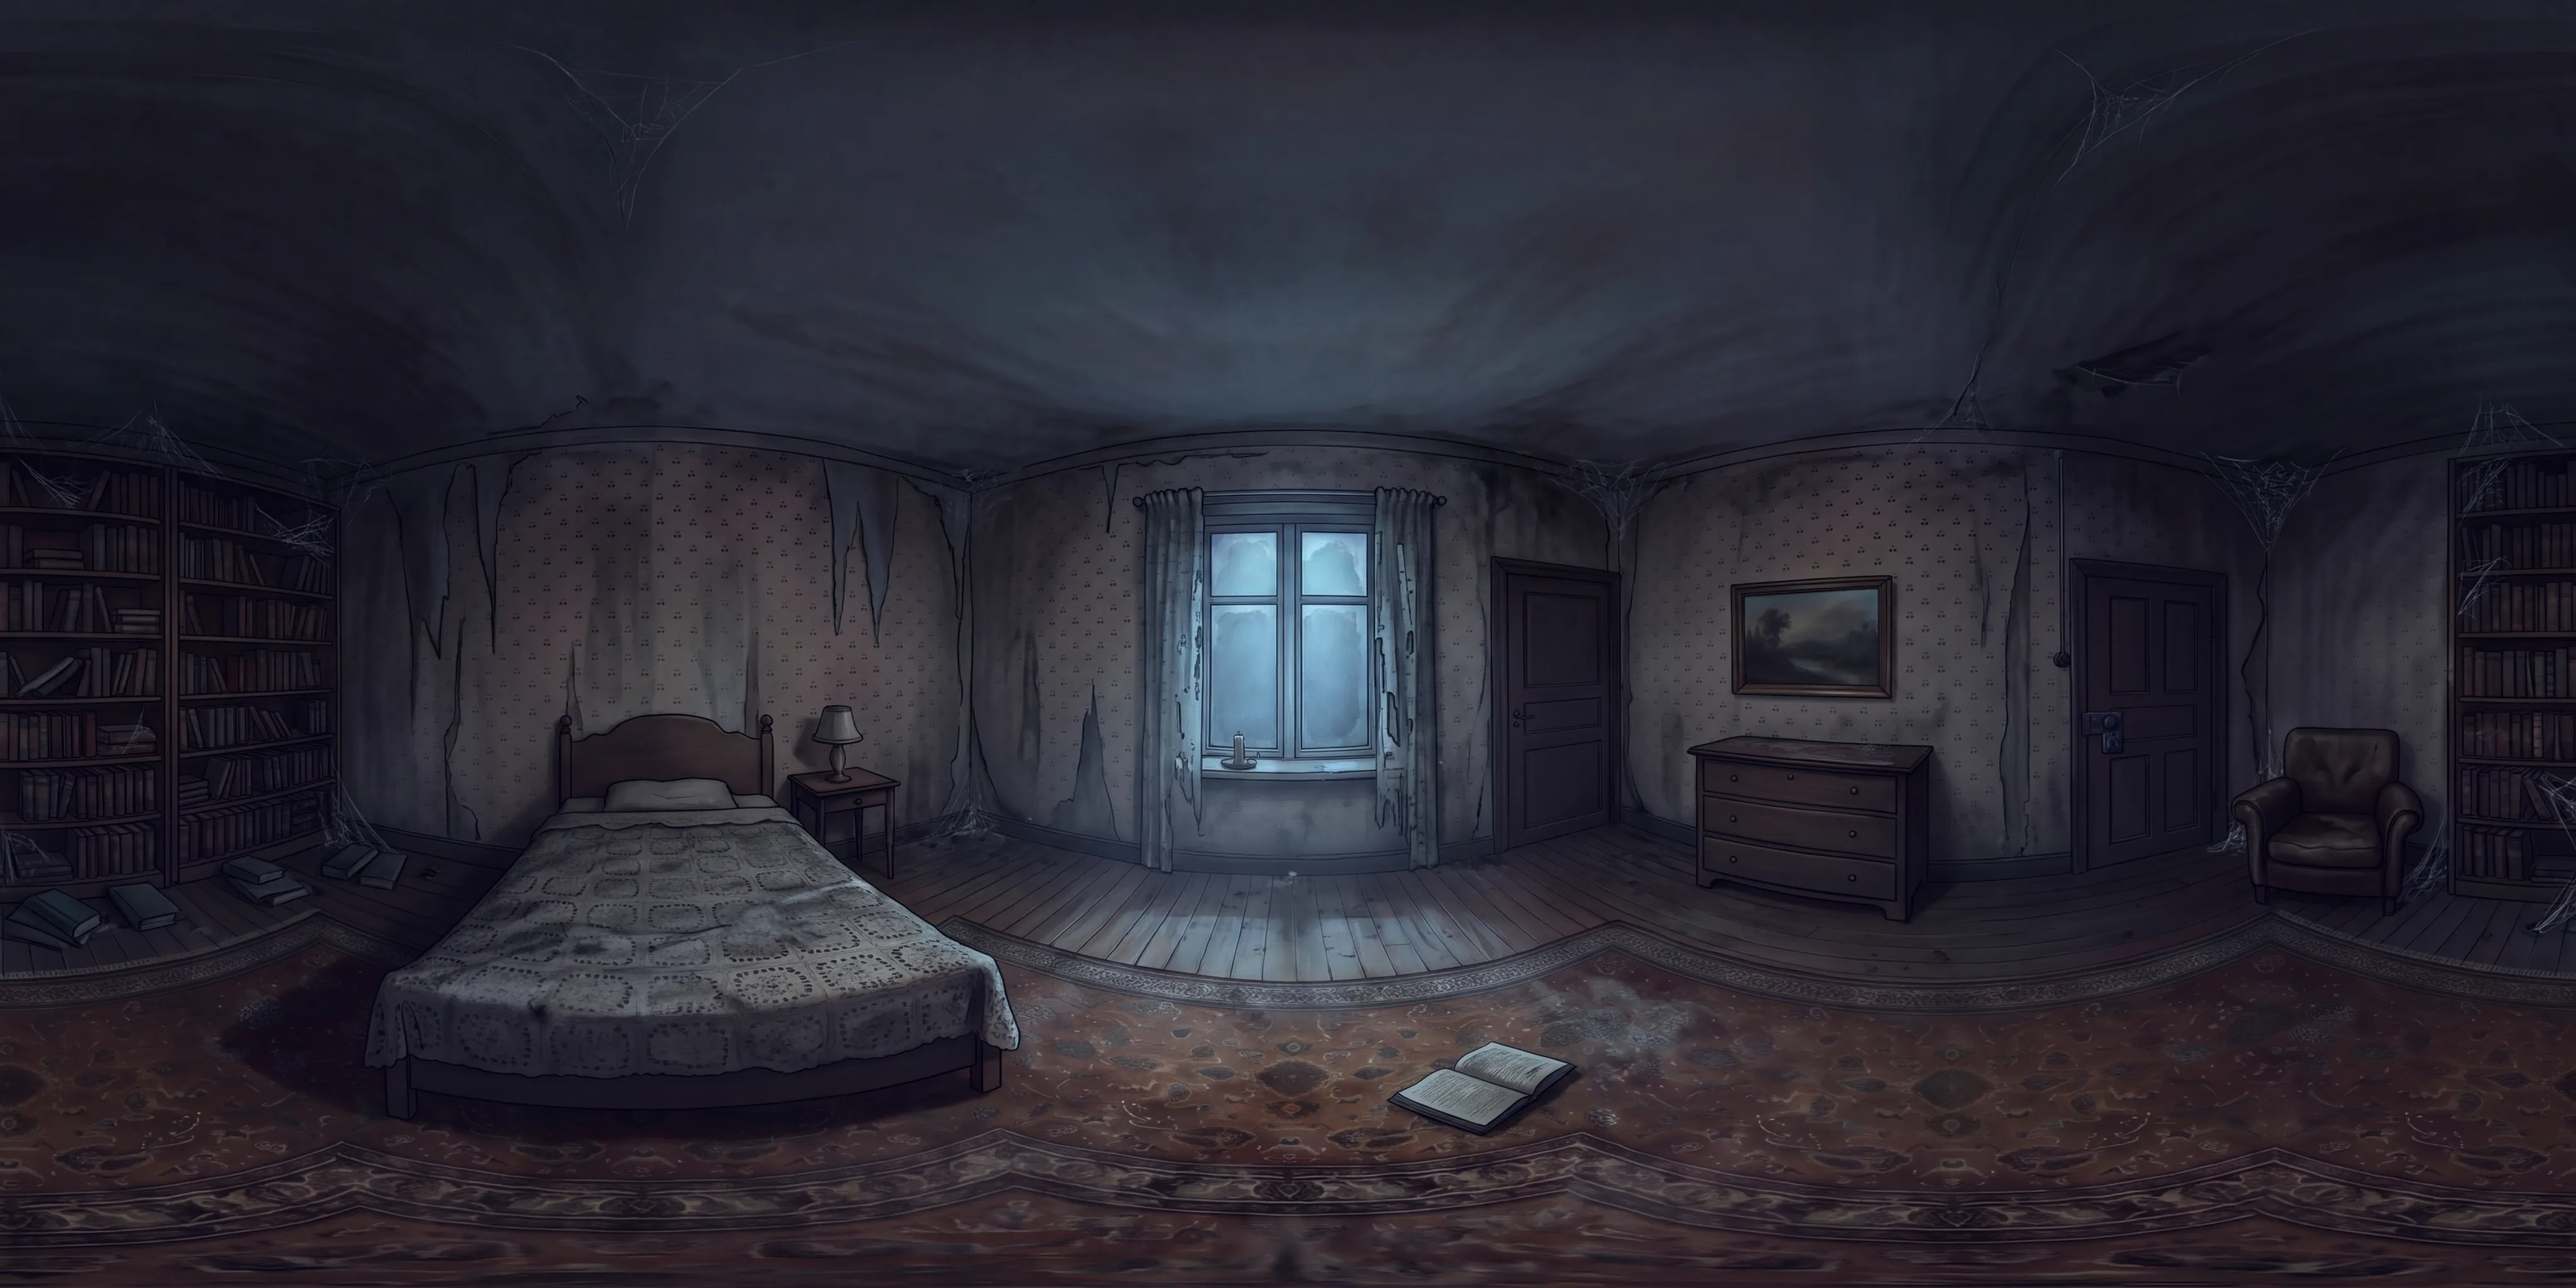
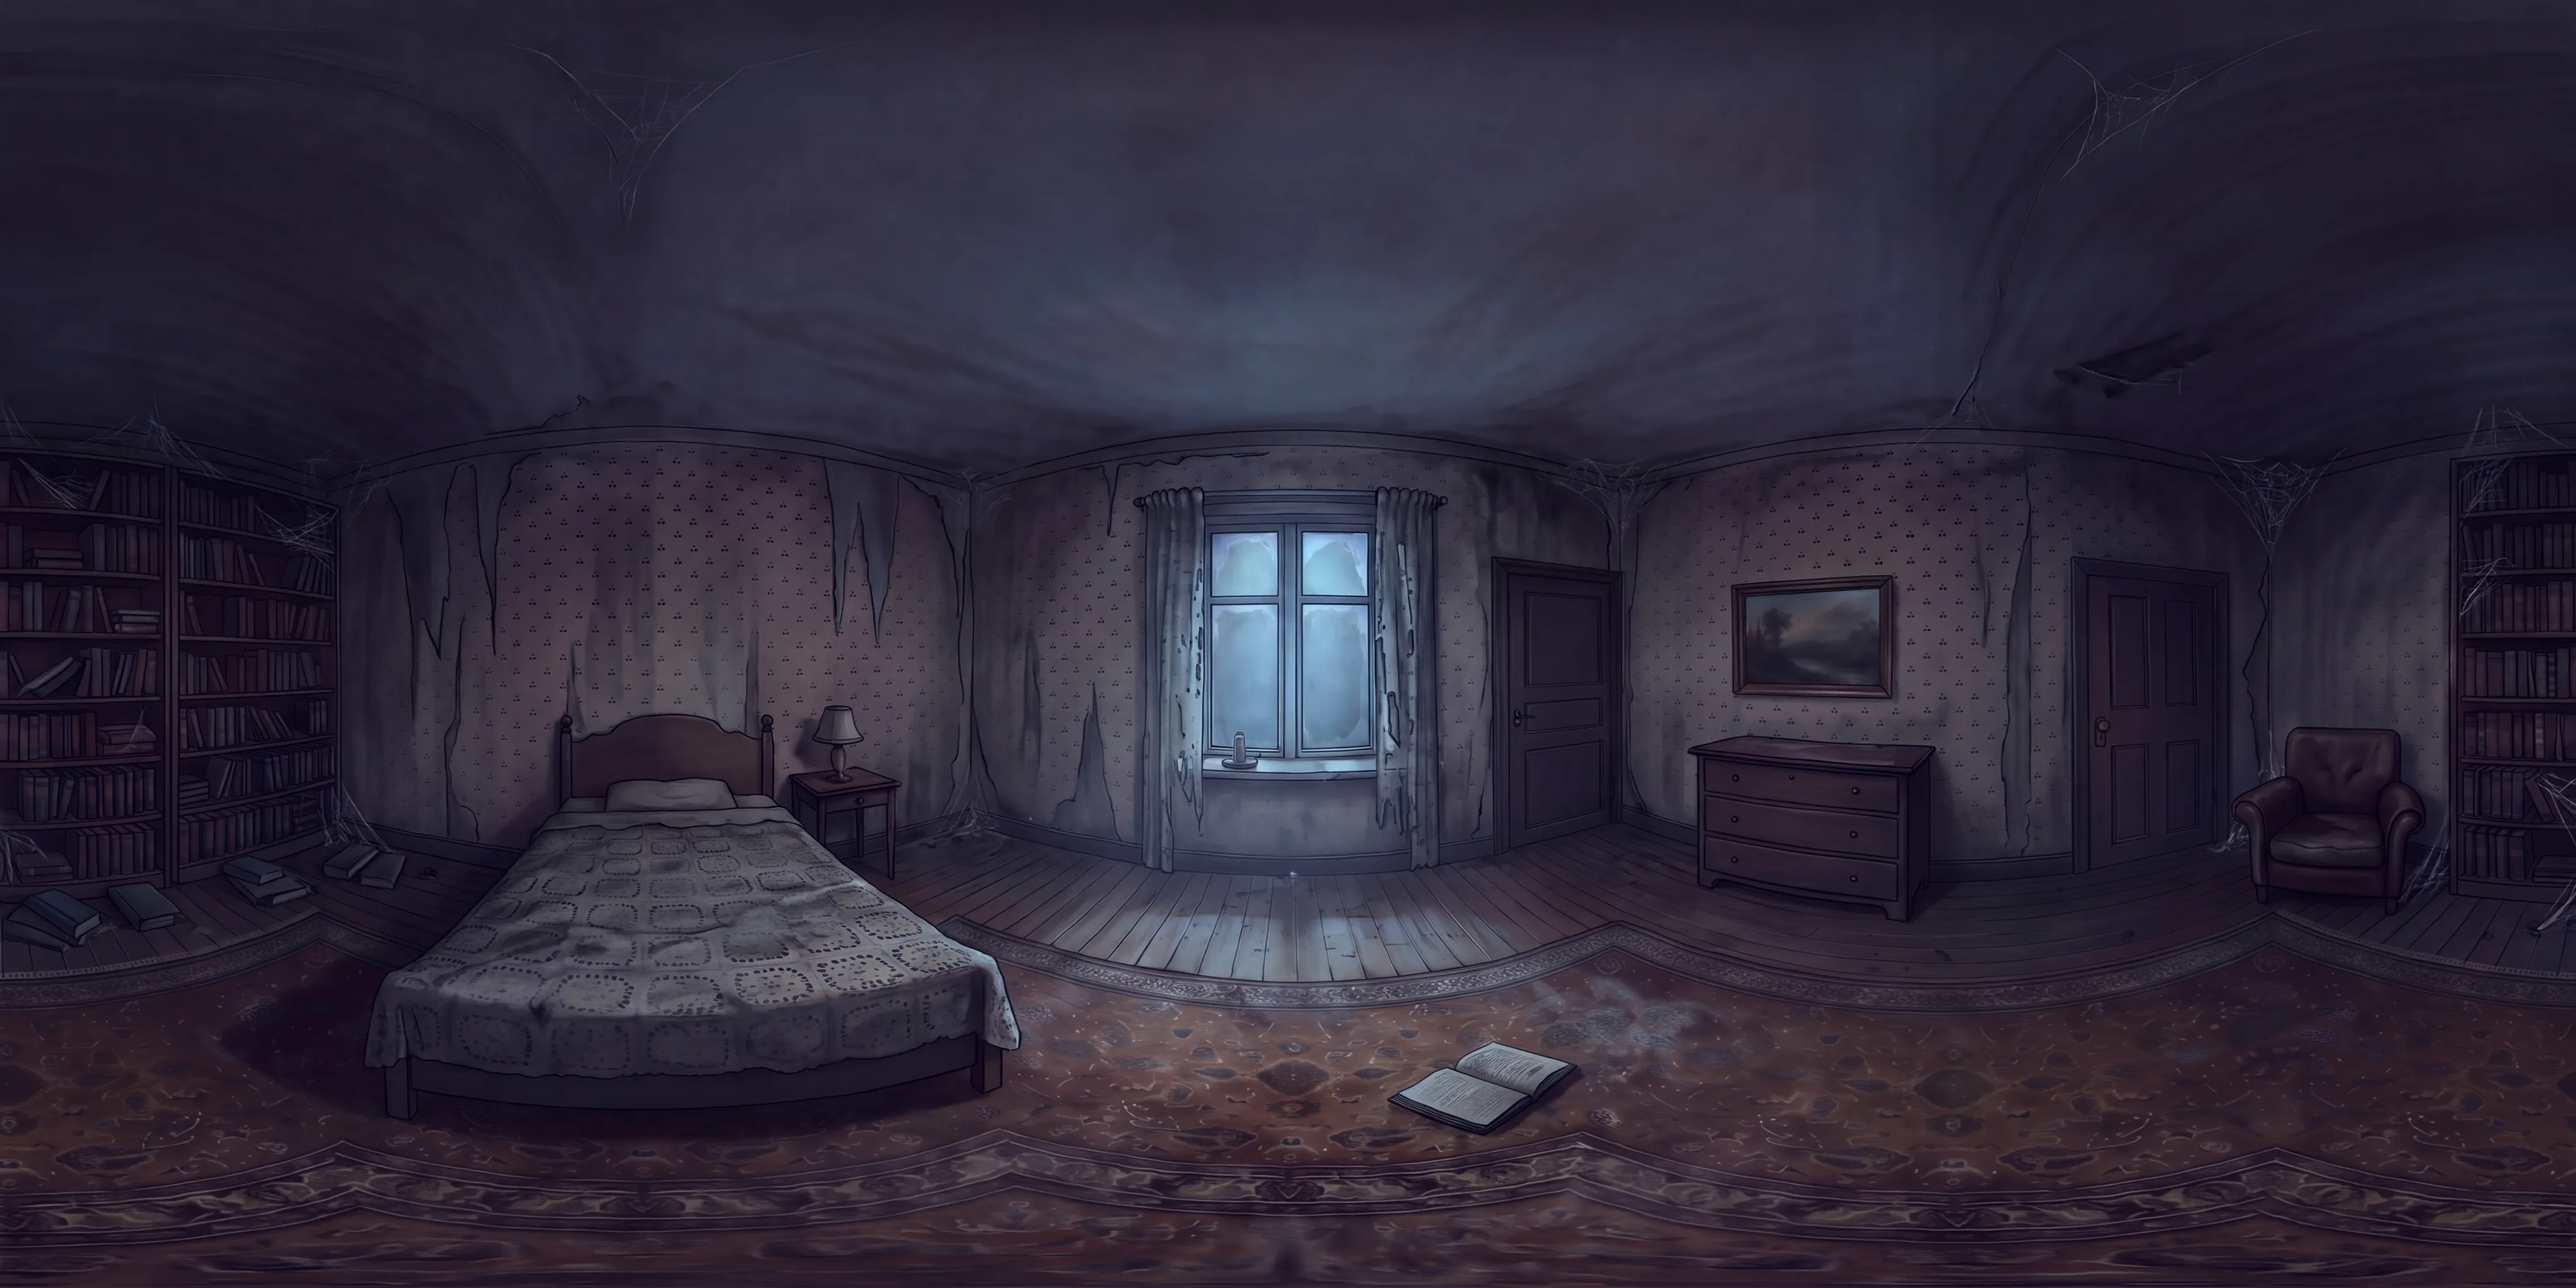
Ta bort kaffestrålen och låset i sovrummet
Claude-Session: https://claude.ai/code/session_01X82C4CqheV7jTaXH9cVkV3

diff --git a/src/config.ts b/src/config.ts
@@ -6,4 +6,4 @@ export const SUPABASE_PUBLIC_KEY = 'sb_publishable_aa--NTfRkU6vqDZUqgXMPw_o2LBJh
 
 // Visas på sidan och i felsökningsloggen, så att det syns om mobilen kör en
 // gammal sida ur cachen. Höjs vid varje ändring av webbsidan.
-export const VERSION = '2026-11-20.88';
+export const VERSION = '2026-11-20.89';

diff --git a/docs/rundbilder-prov.md b/docs/rundbilder-prov.md
@@ -328,3 +328,6 @@ har funktionerna `koket` och `sovrummet`, med betraktaren mitt i rummet.
   kopp, och den extra kannan på spisen är borta. Mannen i sovrummet röker
   pipa och ser sig om i rummet, eftersom det inte syntes att han stoppade
   den. Minnestexten ändrades på samma sätt.
+- **Kaffestrålen och låset** (Jonas 2026-11-20). Strålen såg ut att rinna
+  utanför koppen, så den togs bort och pipen hålls nu över koppen. Dörren i
+  sovrummet hade lås och fick ett vanligt dörrhandtag, i båda bilderna.
